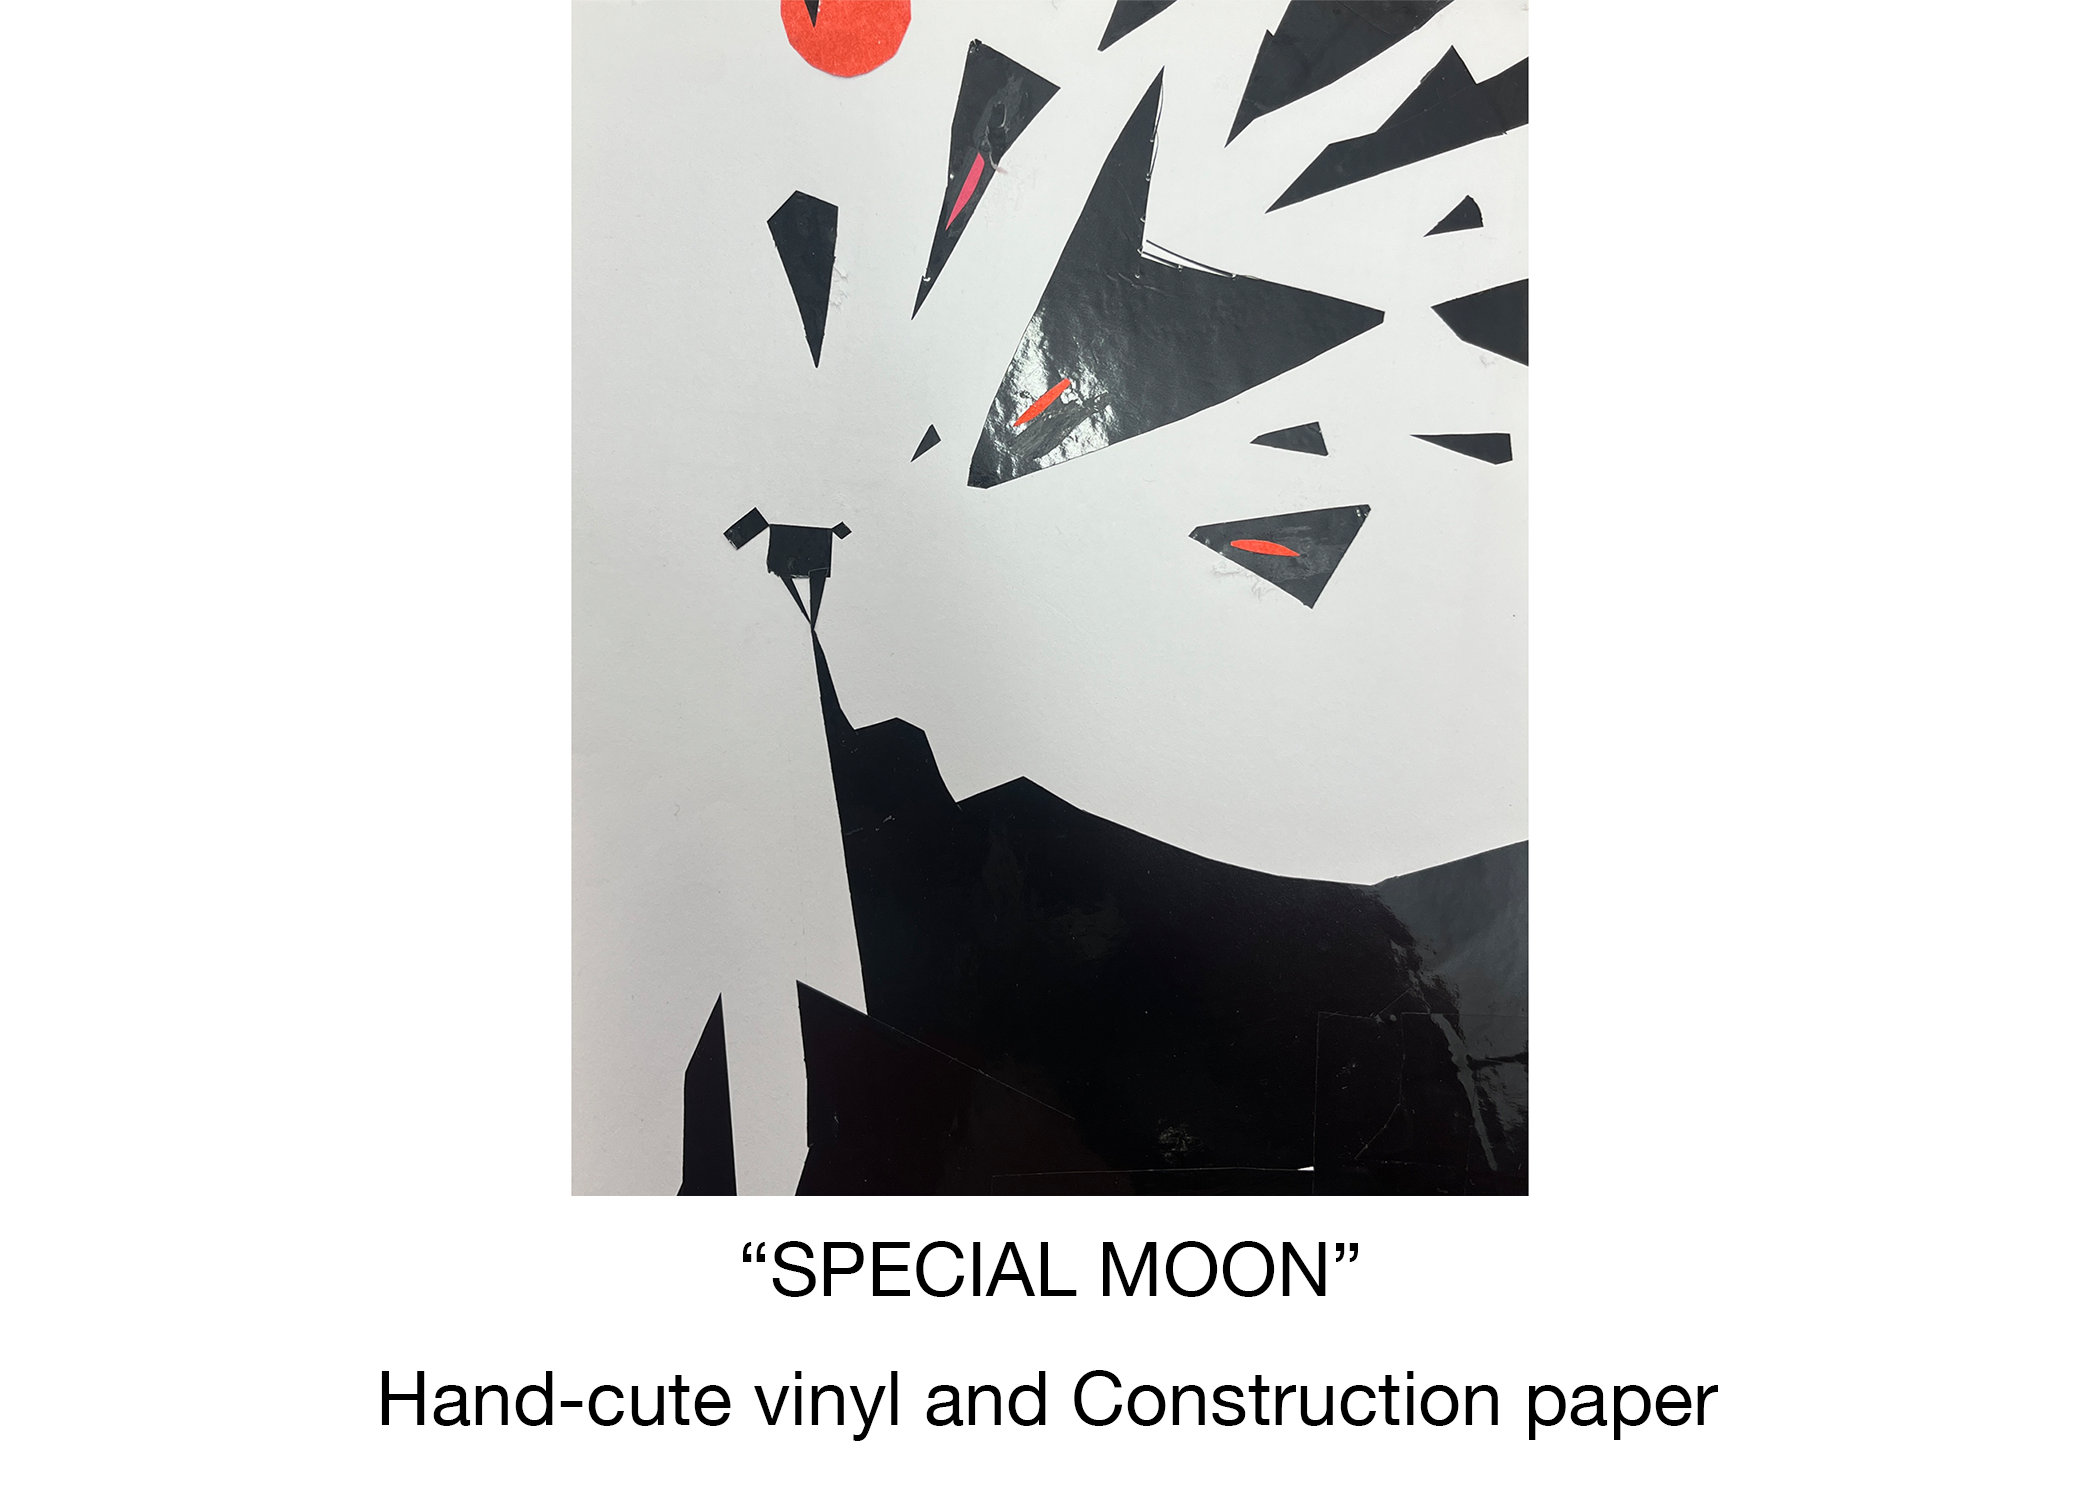
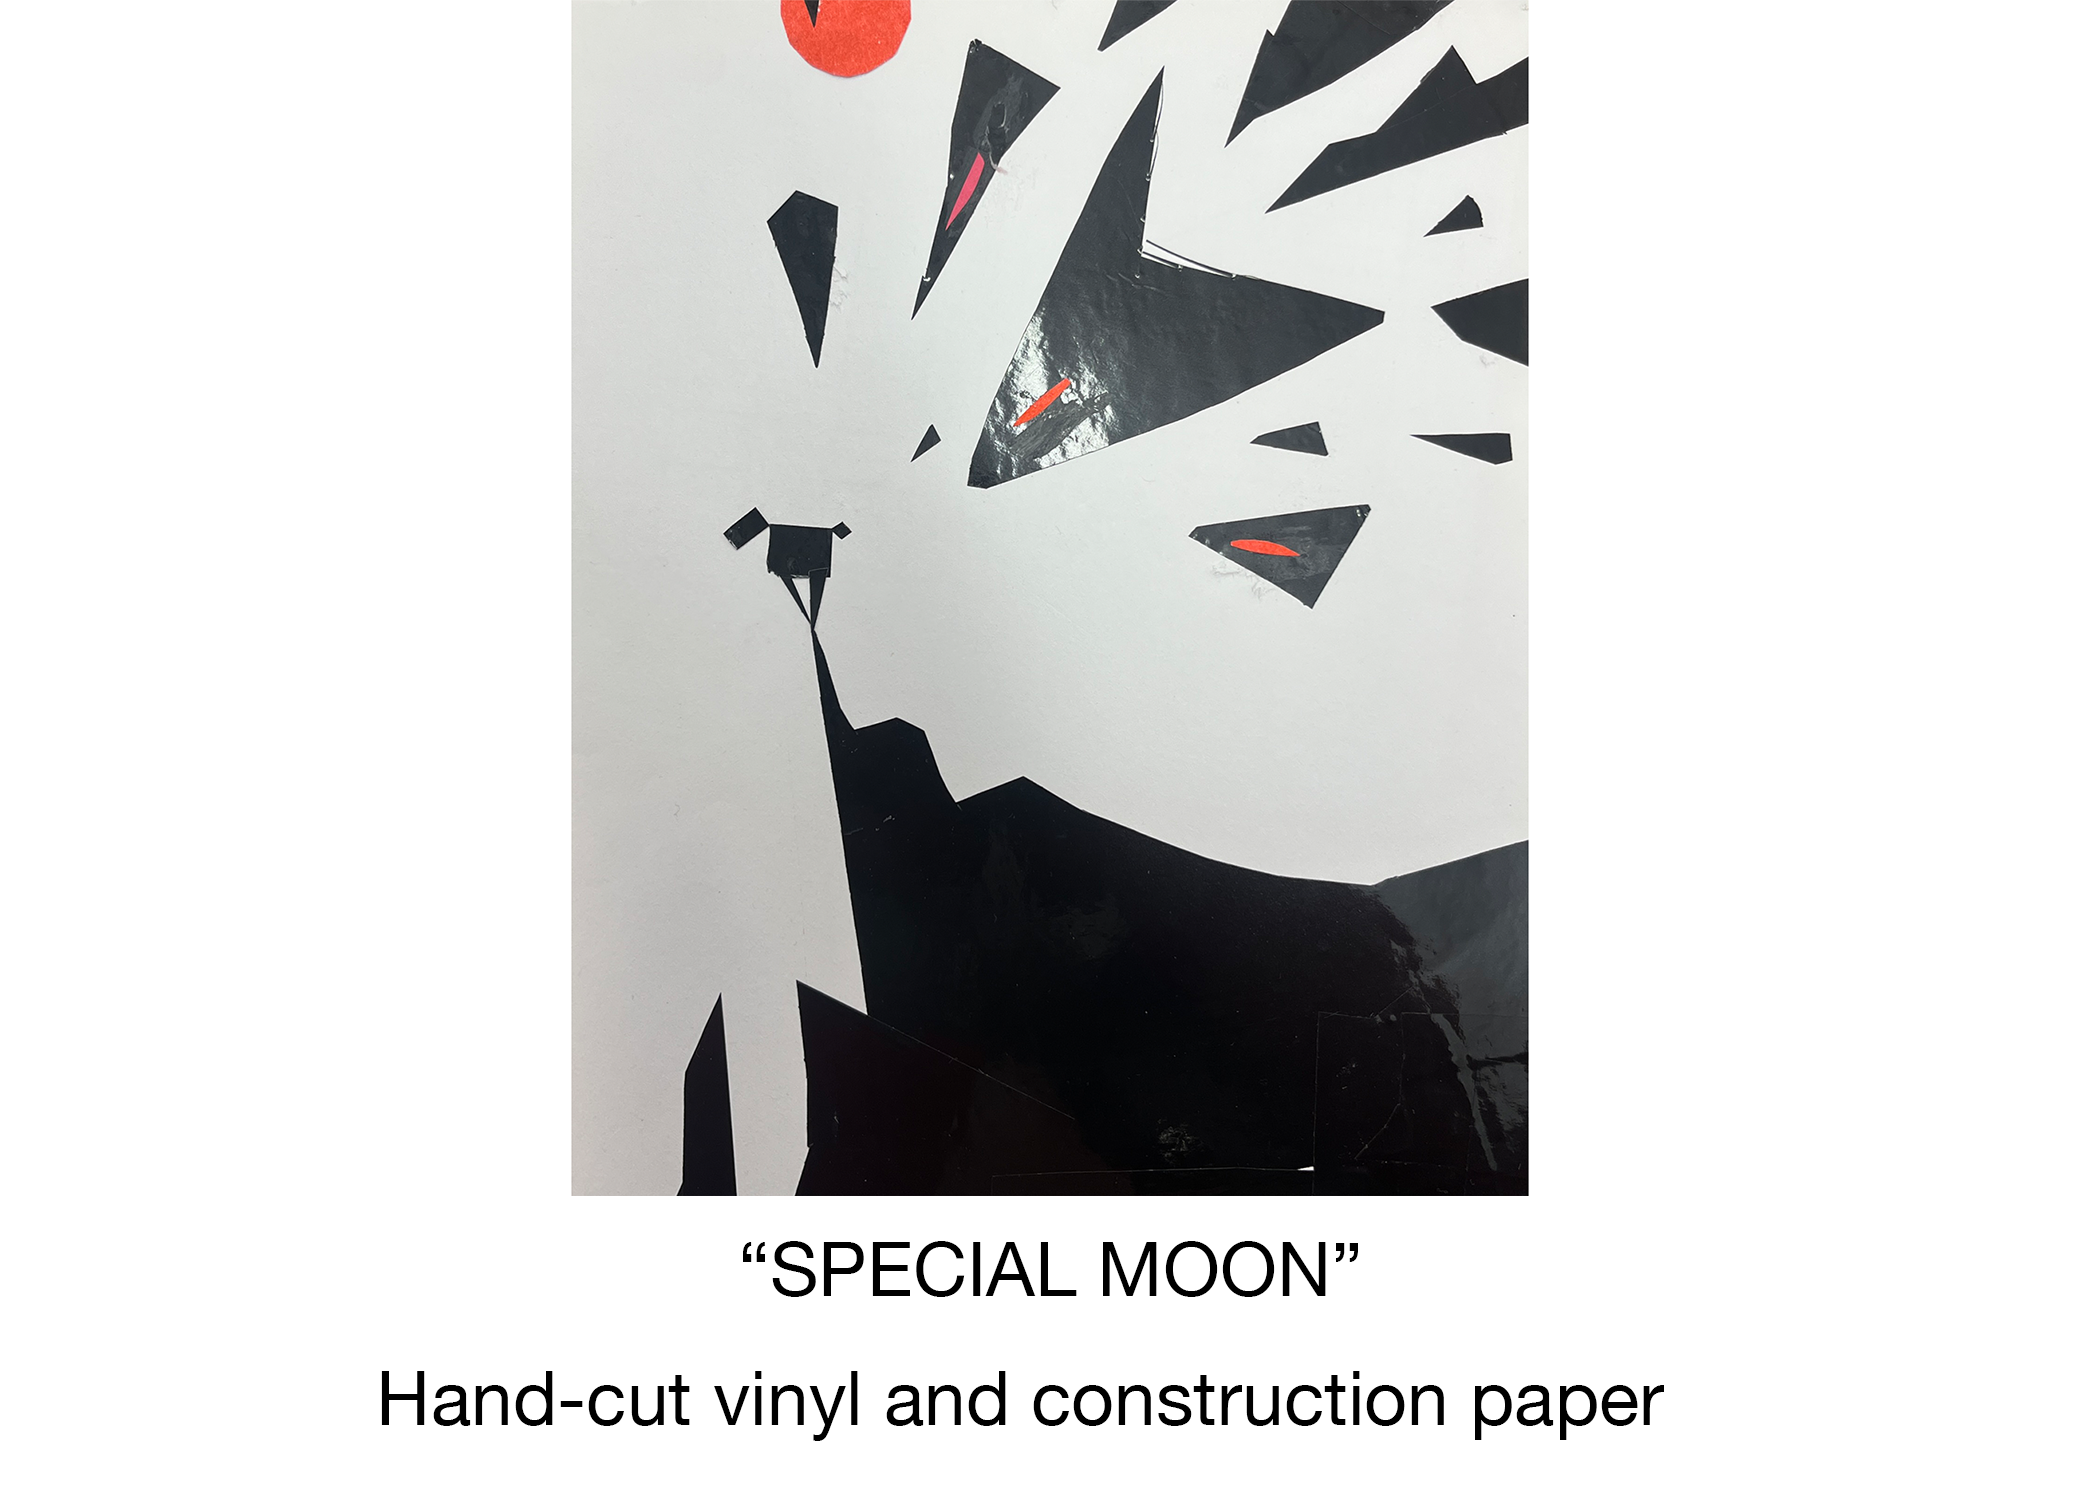
spelling fixes

Changed region(s): [[0.3095, 0.92, 0.8357, 0.9507]]

diff --git a/about.html b/about.html
@@ -30,7 +30,7 @@
       </div>
       <div class="col-lg-6">
         <h1 class="display-5 fw-bold lh-1 mb-3">Student, Artist, Designer</h1>
-        <p class="lead"> I am currently a sophmore at NYU studying <a href="https://engineering.nyu.edu/academics/programs/integrated-design-media-bs">Integrated Design and Media</a>  originally from San Francisco. I have been enthusiastic about making things for as long as I can remember from biulding my childhood loftbed to now knitting my winter accecories. I have experience in a broad range of digital and analog mediums including silkscreen, handbiult ceramics, illustrator, and photoshop. I am currently influenced by eclogy and fermentation, Japanese shinto philosophy, and math visualisation to name a few! Check out my work to see more </p>
+        <p class="lead"> I am currently a sophmore at NYU studying <a href="https://engineering.nyu.edu/academics/programs/integrated-design-media-bs">Integrated Design and Media</a>  originally from San Francisco. I have been enthusiastic about making things for as long as I can remember from biulding my childhood loftbed to now knitting my winter accecories. I have experience in a broad range of digital and analog mediums including silkscreen, handbuilt ceramics, illustrator, and photoshop. I am currently influenced by ecology and fermentation, Japanese Shinto philosophy, and math visualization to name a few! Check out my work to see more </p>
       </div>
     </div>
   </div>
